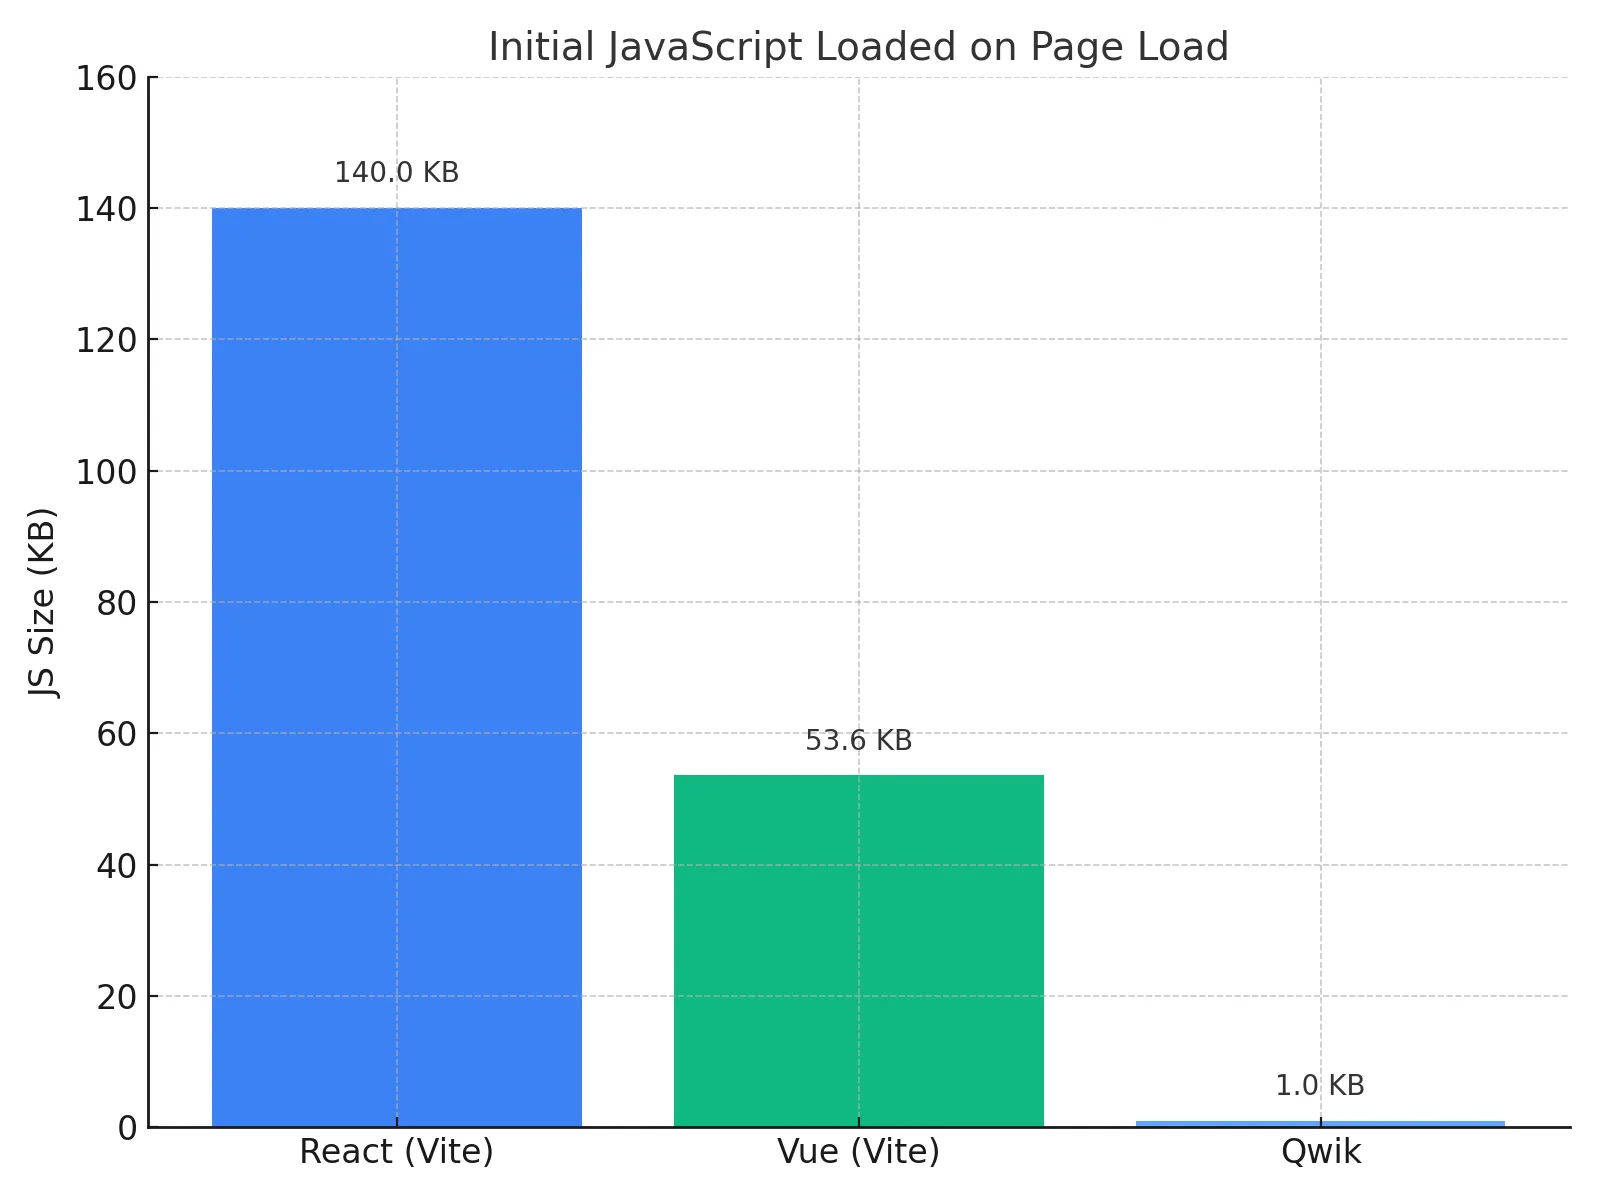
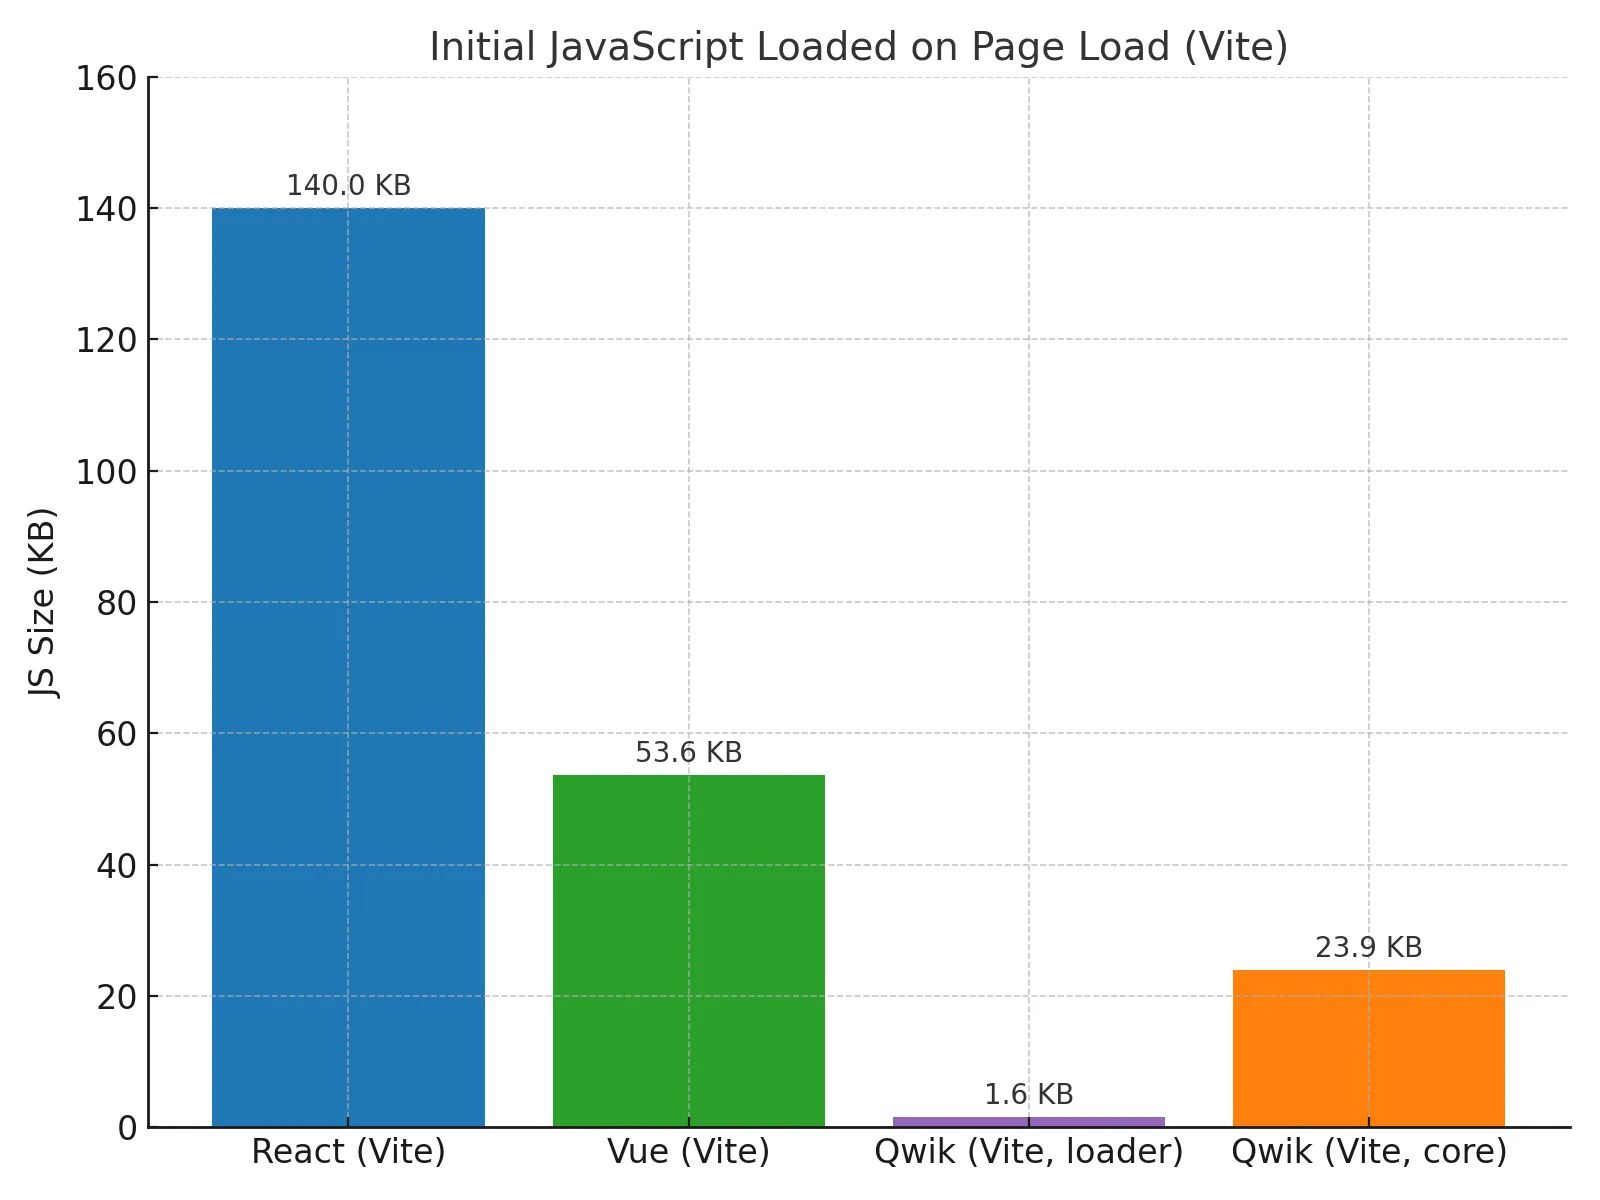
Updated the Qwik2025 article to revise the information on the initial JavaScript load size, specifying that Qwik loads 1.6 KB (Brotli compressed) instead of 1 KB. Added a link to the Qwik official repository for size details. Reworded some sections for improved clarity and impact. Updated the JavaSc

diff --git a/src/components/blog/articles/qwik2025.tsx b/src/components/blog/articles/qwik2025.tsx
@@ -1,5 +1,3 @@
-// src/components/blog/articles/qwik2025.tsx
-
 import { component$ } from "@builder.io/qwik";
 import JSComparisonChart from "~/assets/img/js-comparison.webp?jsx";
 import QwikEcoPlanet from "~/assets/img/qwik-eco-planet.webp?jsx";
@@ -75,9 +73,10 @@ export const Qwik2025Article = component$(() => {
             <p>
               Traditional frameworks ship tens or hundreds of kilobytes of
               JavaScript upfront, even for simple pages. Vue loads 53.6 KB on
-              page load. React loads 140 KB. Qwik only loads{" "}
-              <strong>1 KB</strong> of JavaScript initially—its tiny Qwikloader—
-              and defers the rest until user interaction.
+              page load. React loads 140 KB. Qwik initially loads just
+              <strong>1.6 KB (Brotli compressed)</strong> of JavaScript—its
+              small Qwikloader. For any non-trivial interaction, Qwik loads its
+              core, which is about <strong>69 KB raw / 24 KB Brotli</strong>.
             </p>
 
             <figure class="mb-8">
@@ -86,15 +85,24 @@ export const Qwik2025Article = component$(() => {
                 class="mx-auto w-full max-w-2xl rounded-md shadow"
               />
               <figcaption class="mt-2 text-center text-sm text-gray-500">
-                Qwik leads with the smallest initial JS payload: just 1 KB
-                loaded on page load.
+                Qwik starts with the smallest JS payload (1.6 KB), loading more
+                only when needed.
               </figcaption>
             </figure>
 
             <p>
               This approach drastically improves performance metrics like
               Largest Contentful Paint (LCP) and Time to Interactive (TTI),
-              especially on mobile or low-end devices.
+              especially on mobile or low-end devices. You can find more details
+              about the exact sizes and breakdowns of Qwik's loader and core in
+              the official Qwik repository:{" "}
+              <a
+                href="https://github.com/QwikDev/qwik/actions/runs/14367454638/job/40283641680#step:6:42"
+                target="_blank"
+              >
+                Qwik GitHub Actions (details)
+              </a>
+              .
             </p>
 
             <h2>🌱 3. Sustainability: Less Carbon, Less Load</h2>
@@ -138,16 +146,18 @@ export const Qwik2025Article = component$(() => {
             </p>
 
             <h2>📊 5. Use Cases: When to Choose Qwik</h2>
+            <p>Qwik excels in:</p>
             <ul>
               <li>Marketing sites that must load instantly</li>
               <li>eCommerce apps where conversion depends on speed</li>
               <li>Content platforms with SEO needs</li>
               <li>SPAs that need long-term maintainability</li>
             </ul>
-
             <p>
-              Qwik is already used in production by companies looking to
-              future-proof their frontend stack.
+              That said, Qwik is still a wonderful choice for more 'regular'
+              uses, thanks to its seamless SSR, Signals API, and minimal
+              browser-side JS footprint, making it a great fit for most web
+              projects.
             </p>
 
             <h2>📈 Final Comparison (2025)</h2>
@@ -178,7 +188,7 @@ export const Qwik2025Article = component$(() => {
                 <tr>
                   <td class="border px-4 py-2 font-bold text-blue-600">Qwik</td>
                   <td class="border px-4 py-2 font-bold">~100ms</td>
-                  <td class="border px-4 py-2 font-bold">1 KB</td>
+                  <td class="border px-4 py-2 font-bold">1.6 KB (starter)</td>
                   <td class="border px-4 py-2 font-bold">No (Resumable)</td>
                 </tr>
               </tbody>
